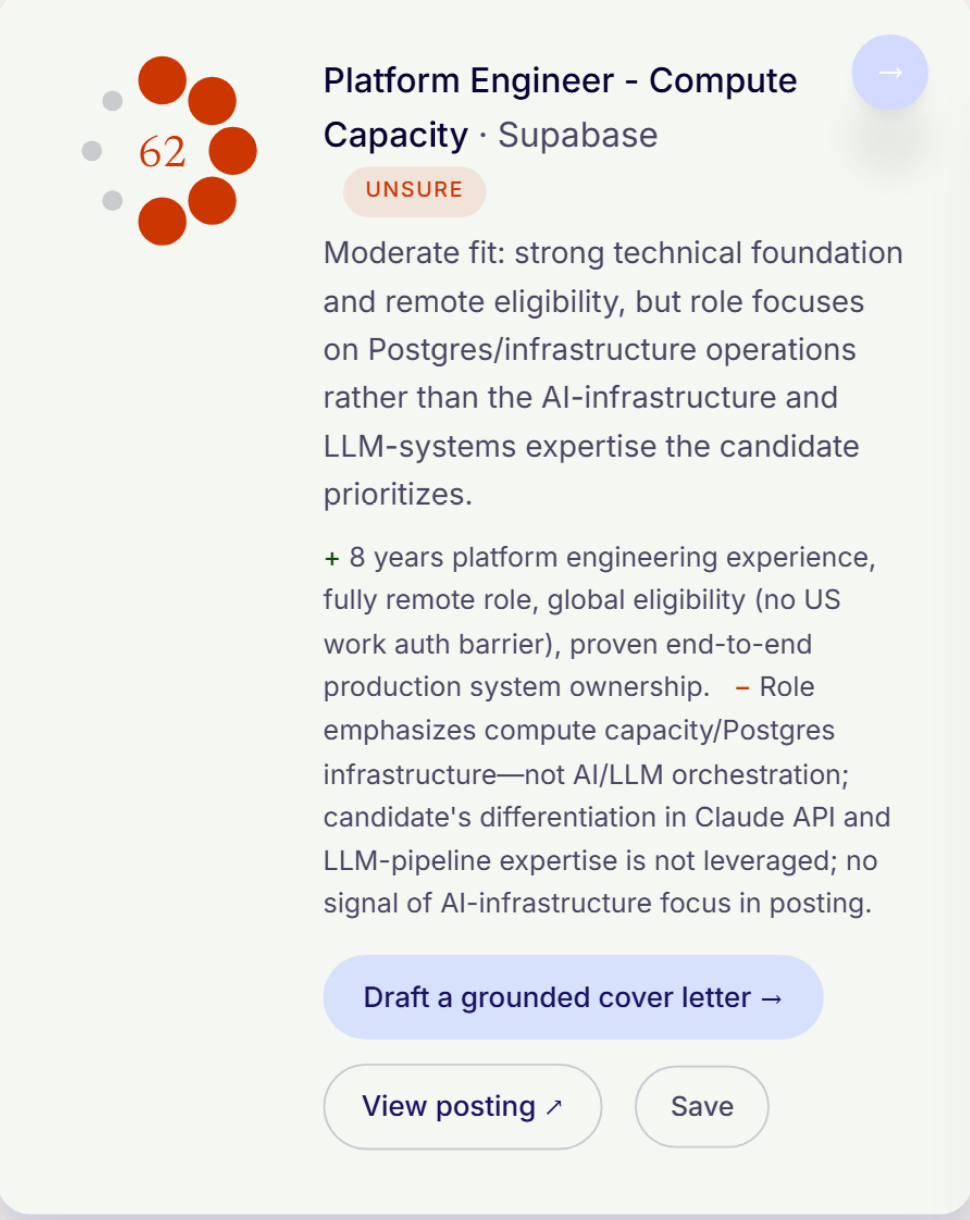
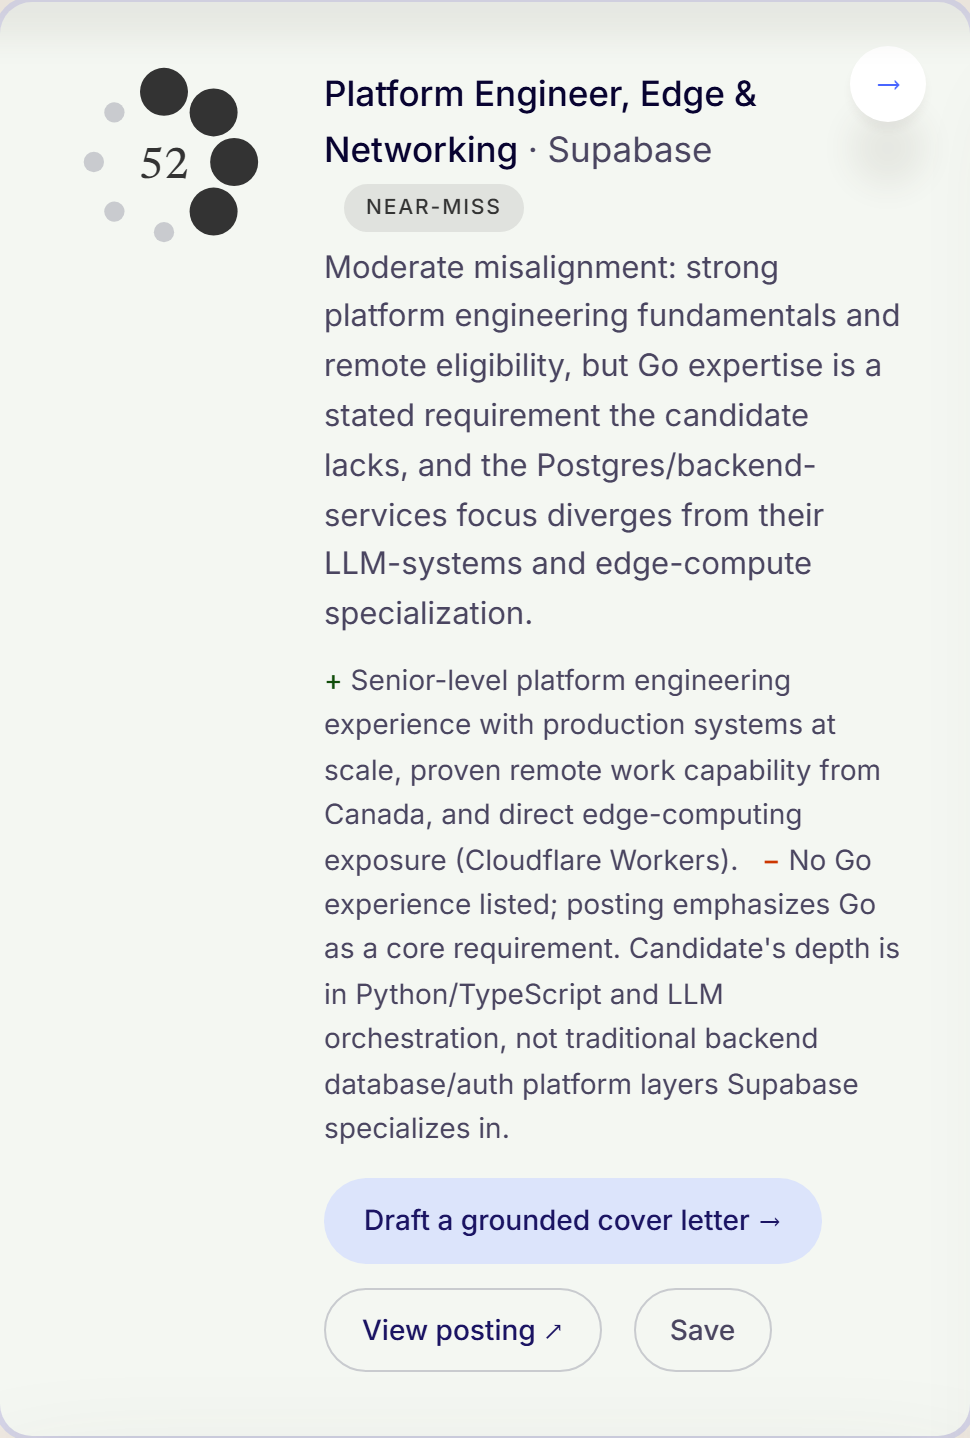
site: letter footer drops the model id; web screenshots retaken from jobscout.page
The capture script now targets the live host and docs/img/native, and clips
the gates band at viewport width — an element screenshot of the full-bleed
band composited the sections below it into the image.

diff --git a/site/index.html b/site/index.html
@@ -929,7 +929,7 @@ async function draftLetter(card, posting, profile){
       div.textContent = d.letter;
       const lm = document.createElement("div");
       lm.className = "lm";
-      lm.textContent = `grounded only in the profile shown · ${d.meta?.model}`;
+      lm.textContent = "grounded only in the profile shown";
       div.appendChild(lm);
       card.appendChild(div);
       btn.remove();
